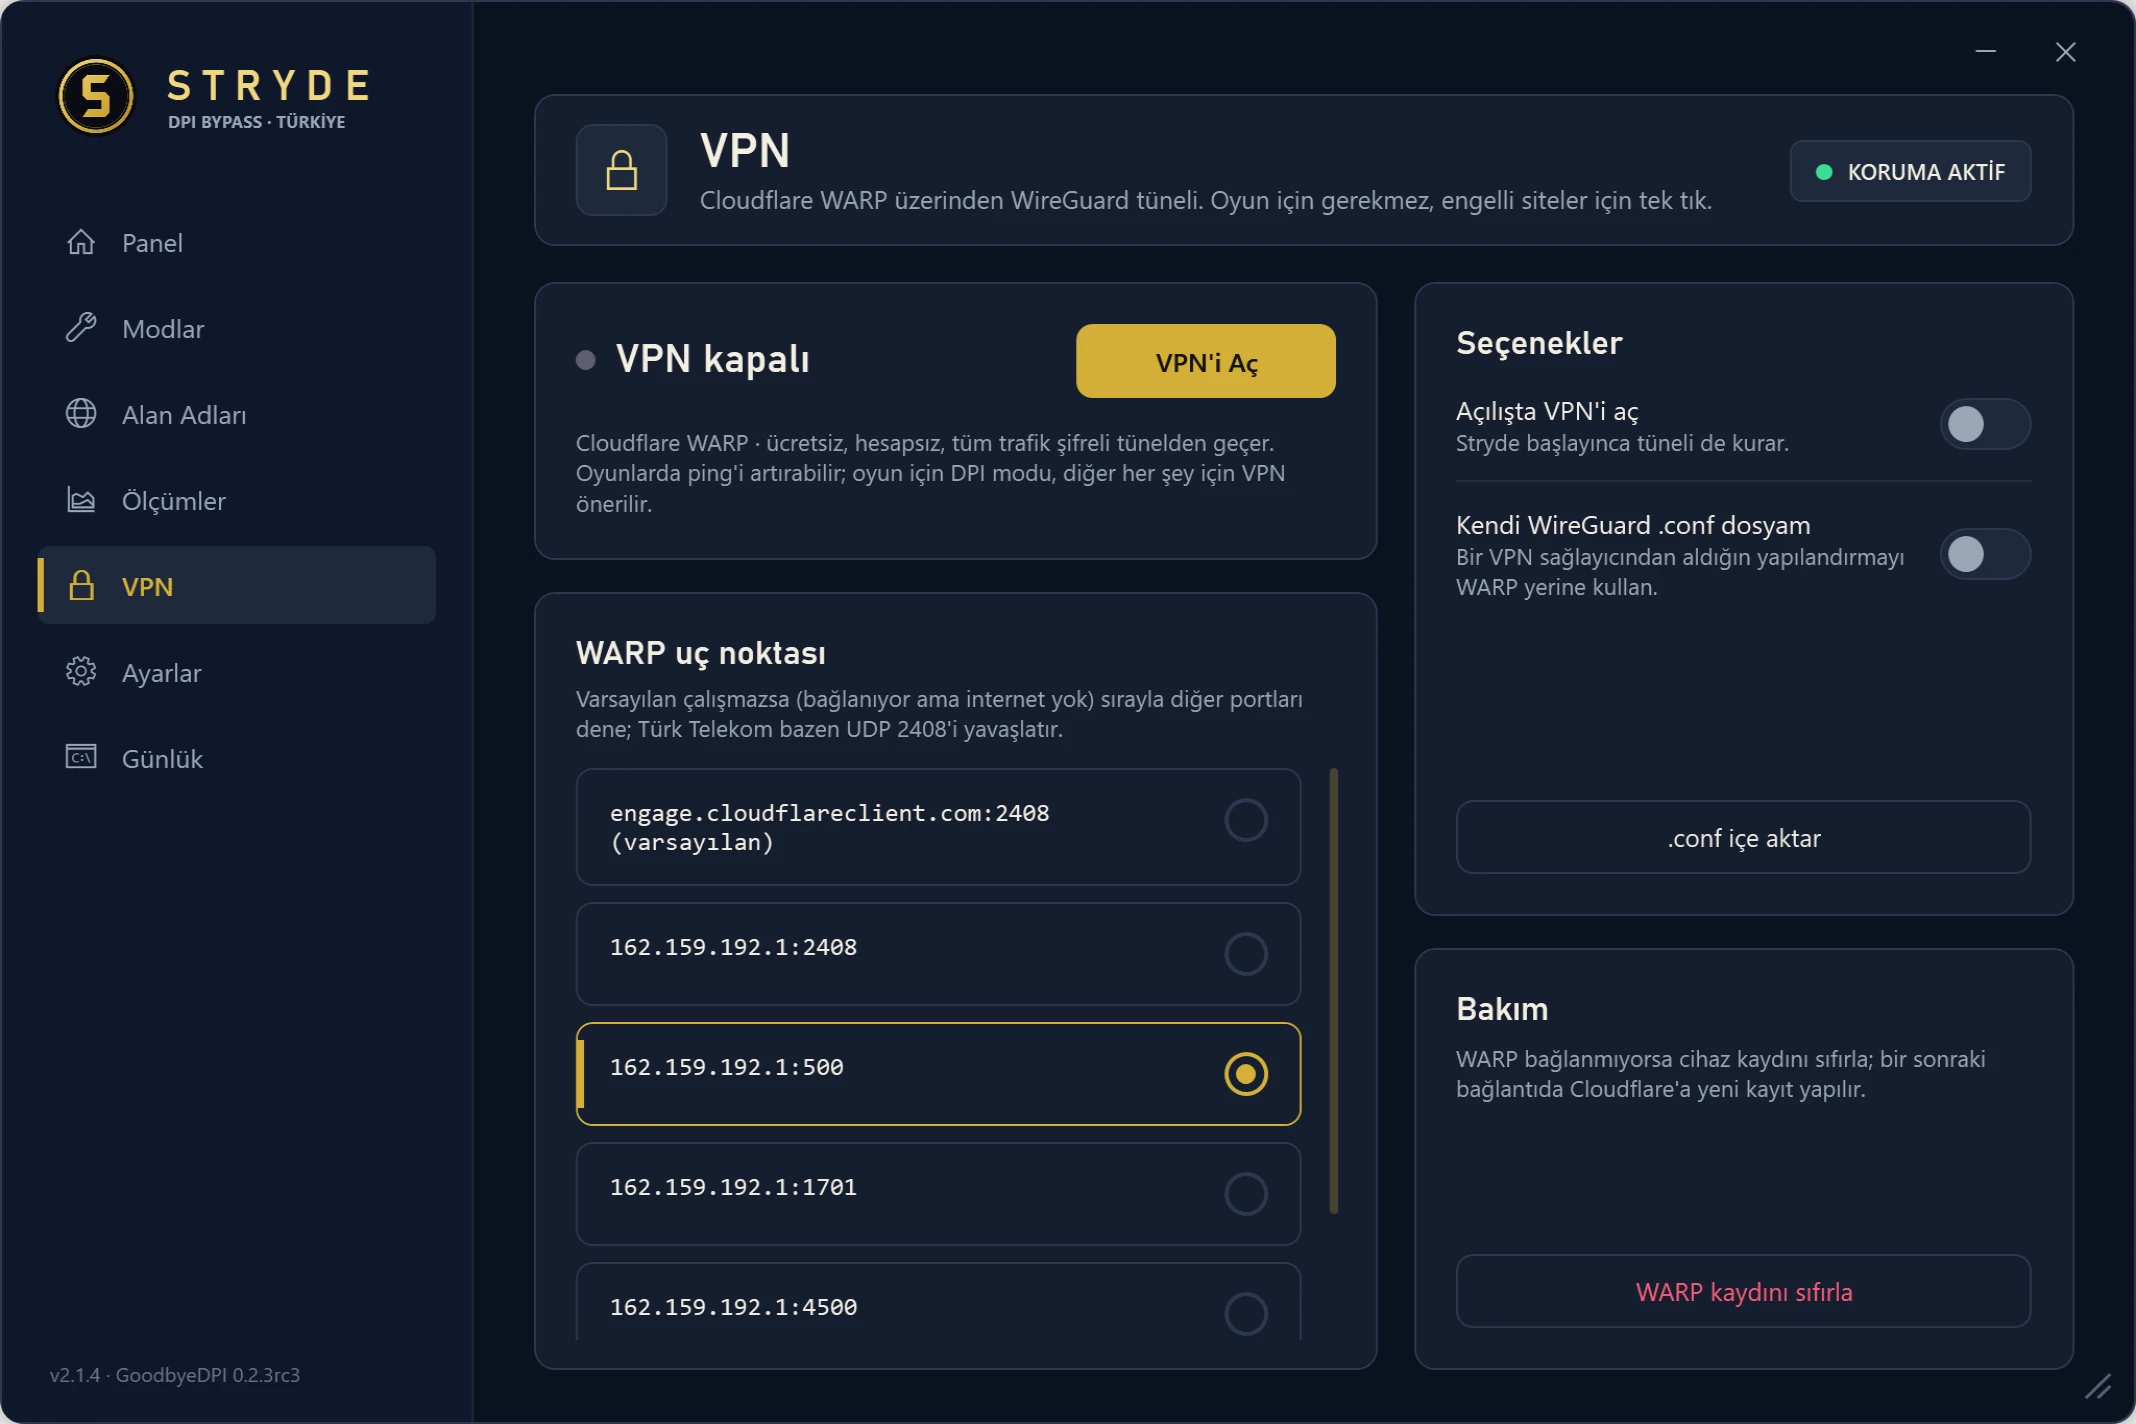
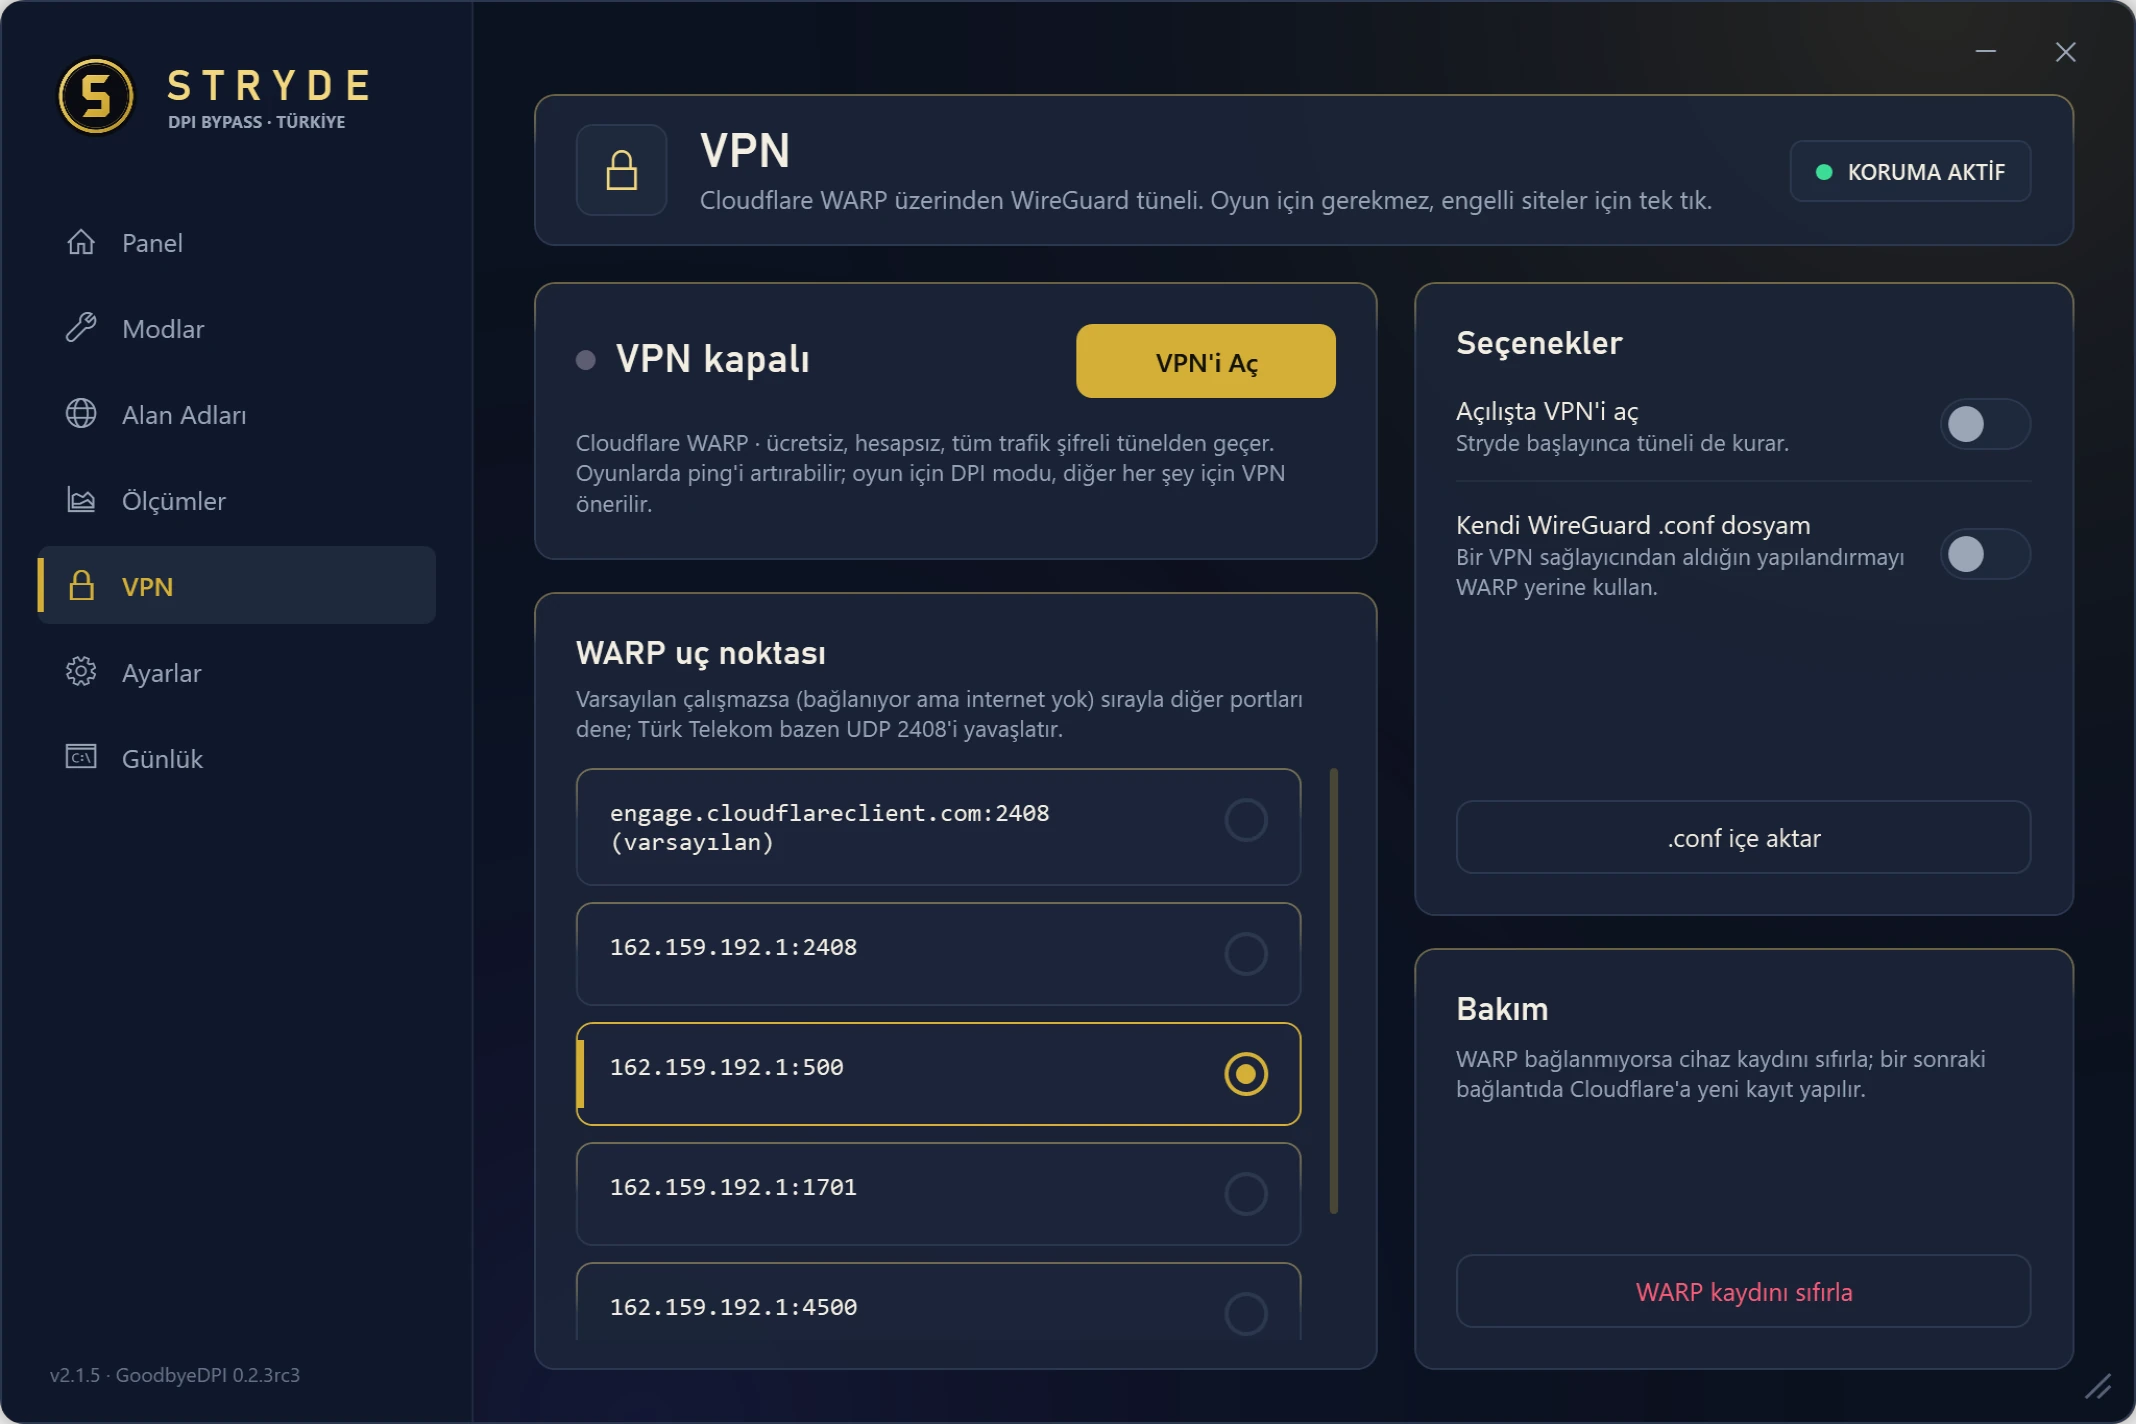
Ekran görüntüleri yeni görünümle yenilendi, sürüm listesi: 2.1.5

Changed region(s): [[0.8652, 0.0, 0.9579, 0.0618]]

diff --git a/docs/index.html b/docs/index.html
@@ -339,9 +339,9 @@
       </div>
       <div>
         <ul class="log" id="surumler">
+          <li><b>2.1.5<time datetime="2026-11-15">15 Kasım 2026</time></b><span>Biraz atmosfer geri geldi: arkada çok hafif ortam ışığı, üst kenarı ışıklı yükseltilmiş kartlar ve koruma açıkken güç düğmesinde yumuşak hare.</span></li>
           <li><b>2.1.4<time datetime="2026-11-15">15 Kasım 2026</time></b><span>Daha sade ve keskin görünüm: mat yüzeyler, gradyan ve parlama yok, yeni elmas imleç ve düzenlenmiş sayfalar.</span></li>
           <li><b>2.1.3<time datetime="2026-11-15">15 Kasım 2026</time></b><span>İmleçler yenilendi: altın çerçeveli lacivert ok, tıklanabilir yerlerde altın el ve Stryde çalışırken dönen dişli çark.</span></li>
-          <li><b>2.1.2<time datetime="2026-11-15">15 Kasım 2026</time></b><span>Stryde'ın artık vurgu renginde kendi imleci var; istemezsen Ayarlar'dan kapatabilirsin.</span></li>
         </ul>
         <p class="more"><a href="https://github.com/Nestyyyyyy/stryde/releases" rel="noopener">Tüm sürümler</a></p>
       </div>
